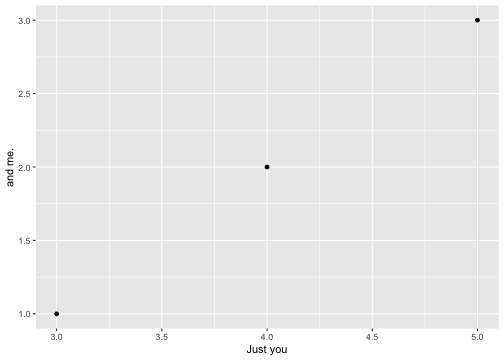
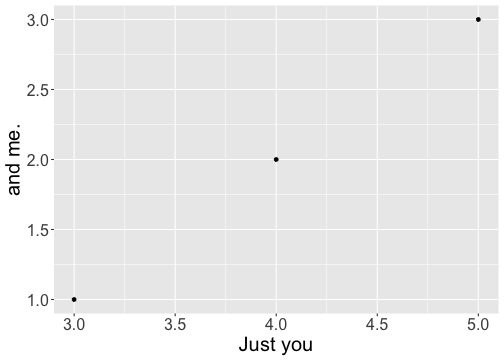
Fixing fonts & png transparency

Changed region(s): [[0.0, 0.0, 1.0, 1.0], [0.5357, 0.4278, 0.5655, 0.4583], [0.506, 0.4583, 0.5357, 0.4889]]

diff --git a/index.html b/index.html
@@ -4,7 +4,7 @@
     <title>A wonderful MZES presentation made with xaringan</title>
     <meta charset="utf-8" />
     <meta name="author" content="Chung-hong Chan" />
-    <meta name="date" content="2020-04-30" />
+    <meta name="date" content="2020-05-01" />
     <link href="libs/remark-css-0.0.1/default.css" rel="stylesheet" />
     <link href="libs/tile-view-0.0.14/tile-view.css" rel="stylesheet" />
     <script src="libs/tile-view-0.0.14/tile-view.js"></script>
@@ -30,14 +30,14 @@ class: center, middle, inverse, title-slide
 # A wonderful MZES presentation made with xaringan
 ## weil du wunderbar bist!
 ### Chung-hong Chan
-### 2020-04-30
+### 2020-05-01
 
 ---
 
 
 <style type="text/css">
 .xaringan-extra-logo {
-  width: 250px;
+  width: 280px;
   height: 128px;
   z-index: 0;
   background-image: url('mzes_logo.png');
@@ -63,7 +63,7 @@ hello &lt;- "world!"
 # We are the children
 
 * We are the ones who make a **brighter** day
-* So let's *start* giving
+* .large[So let's *start* giving]
 
 `$$\bar{X}=\frac{1}{n}\sum_{i=1}^nX_i$$`
 
@@ -133,51 +133,52 @@ class: inverse, middle, center
 # When you're down and out, there seems no hope at all
 
 ---
-class: center
+class: center, hide-logo
 
 ![](mzes_logo.png)
 
-But if you just believe there's no way we can fall
+.large[But if you just believe there's no way we can fall]
 
 ---
 class: no-animation
 
-* Well
+* .extrasmall[Well]
 
 --
 
-* Well
+* .small[Well]
 
 --
 
-* Well
+* .large[Well]
 
 --
 
-* Well
+* .extralarge[Well]
 
 ---
 
 #  let us realize
 
-<div id="htmlwidget-561ed09078a71480c121" style="width:80%;height:504px;" class="leaflet html-widget"></div>
-<script type="application/json" data-for="htmlwidget-561ed09078a71480c121">{"x":{"options":{"crs":{"crsClass":"L.CRS.EPSG3857","code":null,"proj4def":null,"projectedBounds":null,"options":{}}},"calls":[{"method":"addTiles","args":["//{s}.tile.openstreetmap.org/{z}/{x}/{y}.png",null,null,{"minZoom":0,"maxZoom":18,"tileSize":256,"subdomains":"abc","errorTileUrl":"","tms":false,"noWrap":false,"zoomOffset":0,"zoomReverse":false,"opacity":1,"zIndex":1,"detectRetina":false,"attribution":"&copy; <a href=\"http://openstreetmap.org\">OpenStreetMap<\/a> contributors, <a href=\"http://creativecommons.org/licenses/by-sa/2.0/\">CC-BY-SA<\/a>"}]}],"setView":[[49.4874,8.4566],20,[]]},"evals":[],"jsHooks":[]}</script>
+<div id="htmlwidget-6786fa65d33cbea52f55" style="width:80%;height:504px;" class="leaflet html-widget"></div>
+<script type="application/json" data-for="htmlwidget-6786fa65d33cbea52f55">{"x":{"options":{"crs":{"crsClass":"L.CRS.EPSG3857","code":null,"proj4def":null,"projectedBounds":null,"options":{}}},"calls":[{"method":"addTiles","args":["//{s}.tile.openstreetmap.org/{z}/{x}/{y}.png",null,null,{"minZoom":0,"maxZoom":18,"tileSize":256,"subdomains":"abc","errorTileUrl":"","tms":false,"noWrap":false,"zoomOffset":0,"zoomReverse":false,"opacity":1,"zIndex":1,"detectRetina":false,"attribution":"&copy; <a href=\"http://openstreetmap.org\">OpenStreetMap<\/a> contributors, <a href=\"http://creativecommons.org/licenses/by-sa/2.0/\">CC-BY-SA<\/a>"}]}],"setView":[[49.4874,8.4566],20,[]]},"evals":[],"jsHooks":[]}</script>
 
 ---
-
 # Oh, that a change 
 
+
+
 .pull-left[
-- [can](https://conjugator.reverso.net/conjugation-german-verb-k%C3%B6nnen.html)
-- only
-- .right[come]
+- .small[[can](https://conjugator.reverso.net/conjugation-german-verb-k%C3%B6nnen.html)]
+- .small[only]
+- .small[.right[come]]
 ]
 
 .pull-right[
 ![](unima_logo.png)
 ]
 
-.footnote[
+.small[.footnote[
 [1] You know that you can press **h** for help, right?
 
 [2] Or you can press **p**
@@ -187,7 +188,7 @@ class: no-animation
 [4] Or you can press **o** for an overview
 
 
-]
+]]
 
 ???
 

diff --git a/mzes_fonts.css b/mzes_fonts.css
@@ -1,18 +1,18 @@
 /* Add maven for code font (keep other xaringan defaults */
 @import url(https://fonts.googleapis.com/css?family=Inconsolata);
-@import url(https://fonts.googleapis.com/css?family=Heebo);
+@import url(https://fonts.googleapis.com/css?family=Helvetica);
 @import url(https://fonts.googleapis.com/css?family=Droid+Serif:400,700,400italic);
 @import url(https://fonts.googleapis.com/css?family=Source+Code+Pro:400,700);
 @import url(https://fonts.googleapis.com/css?family=Inconsolata);
 @import url(https://cdn.rawgit.com/tonsky/FiraCode/1.204/distr/fira_code.css);
 
 body {
-    font-family: 'Heebo';
+    font-family: 'Helvetica';
     font-size: 1em;
 }
 
 h1, h2, h3 {
-    font-family: 'Heebo';
+    font-family: 'Helvetica';
     font-weight: bold;
 }
 

diff --git a/mzes.css b/mzes.css
@@ -1,7 +1,7 @@
 .title-slide {
   background-image: url(mzes_dots.png), url(mzes_logo.png), url(unima_logo.png);
-  background-position: 4% 10%, 10% 100%, 90% 100%;
-  background-size: 550px, 250px, 200px;
+  background-position: 0% 10%, 10% 98%, 90% 100%;
+  background-size: 530px, 320px, 270px;
   background-color: #fff;
 }
 
@@ -36,7 +36,6 @@
   line-height: 1;
 }
 
-
 h1 {
   color: #00597E;
 }
@@ -52,6 +51,25 @@ a {
 .imagelab {
     font-size: 50px;
     color: #00597E;
-    background-color: #FFFFFF;
+    background-color: rgb(255, 255, 255, 0.7);
 }
 
+.remark-slide-content {
+  font-size: 28px;
+}
+
+.extralarge {
+    font-size: 200%
+}
+
+.large {
+    font-size: 130%
+}
+
+.small {
+    font-size: 70%
+}
+
+.extrasmall {
+    font-size: 50%
+}
